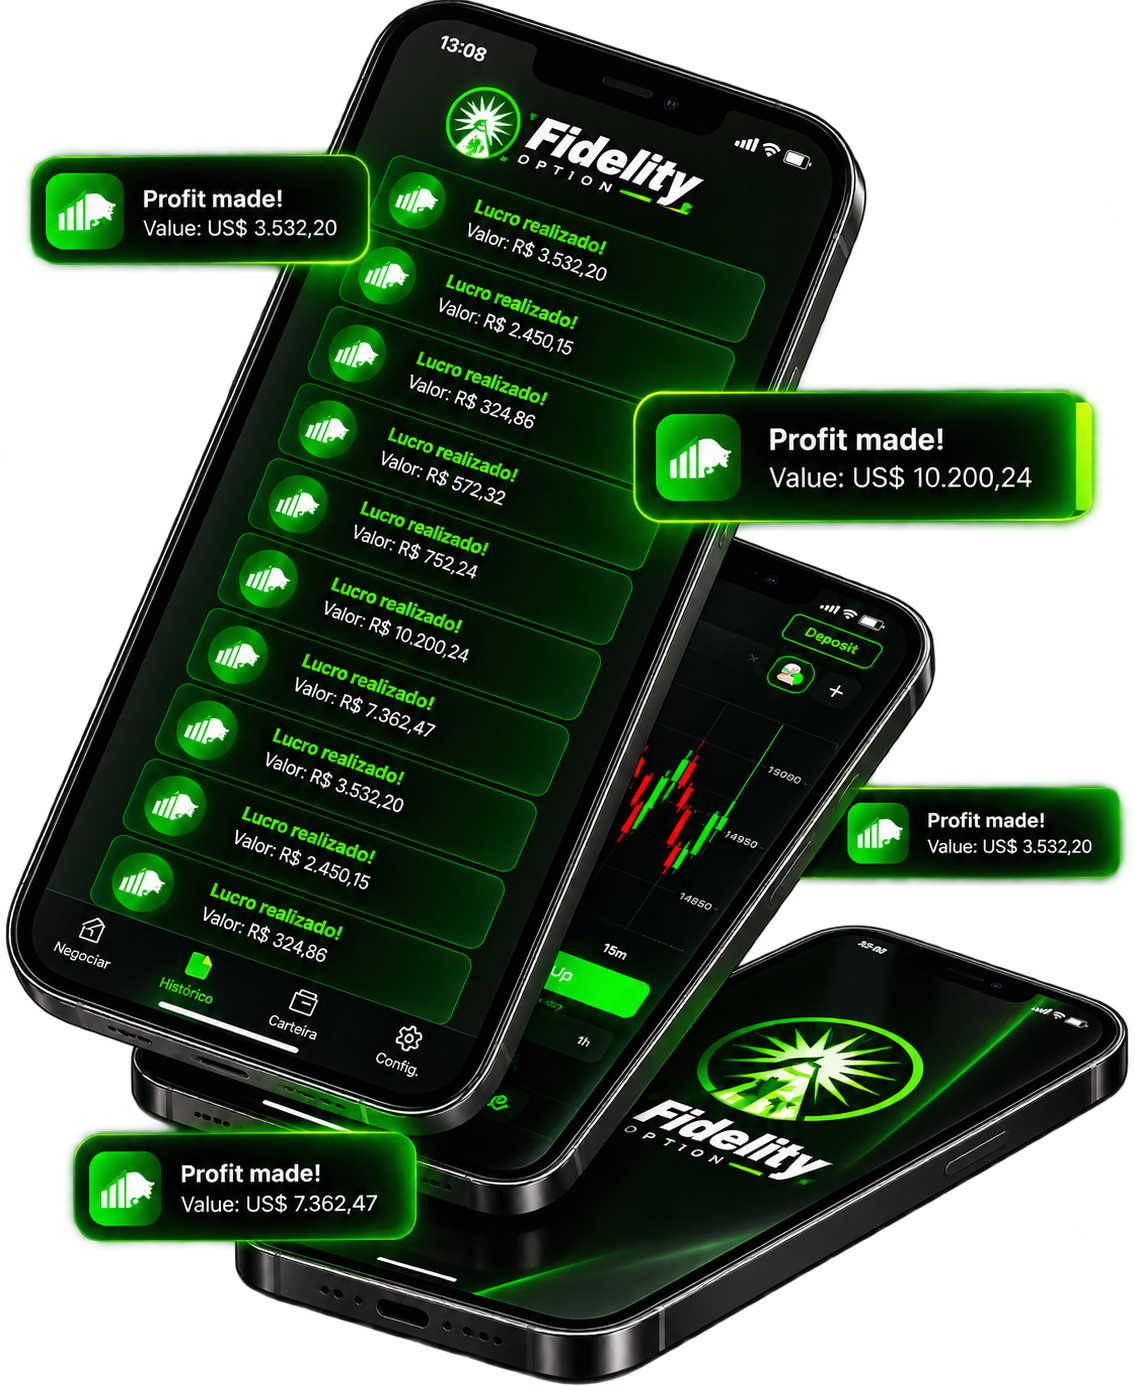
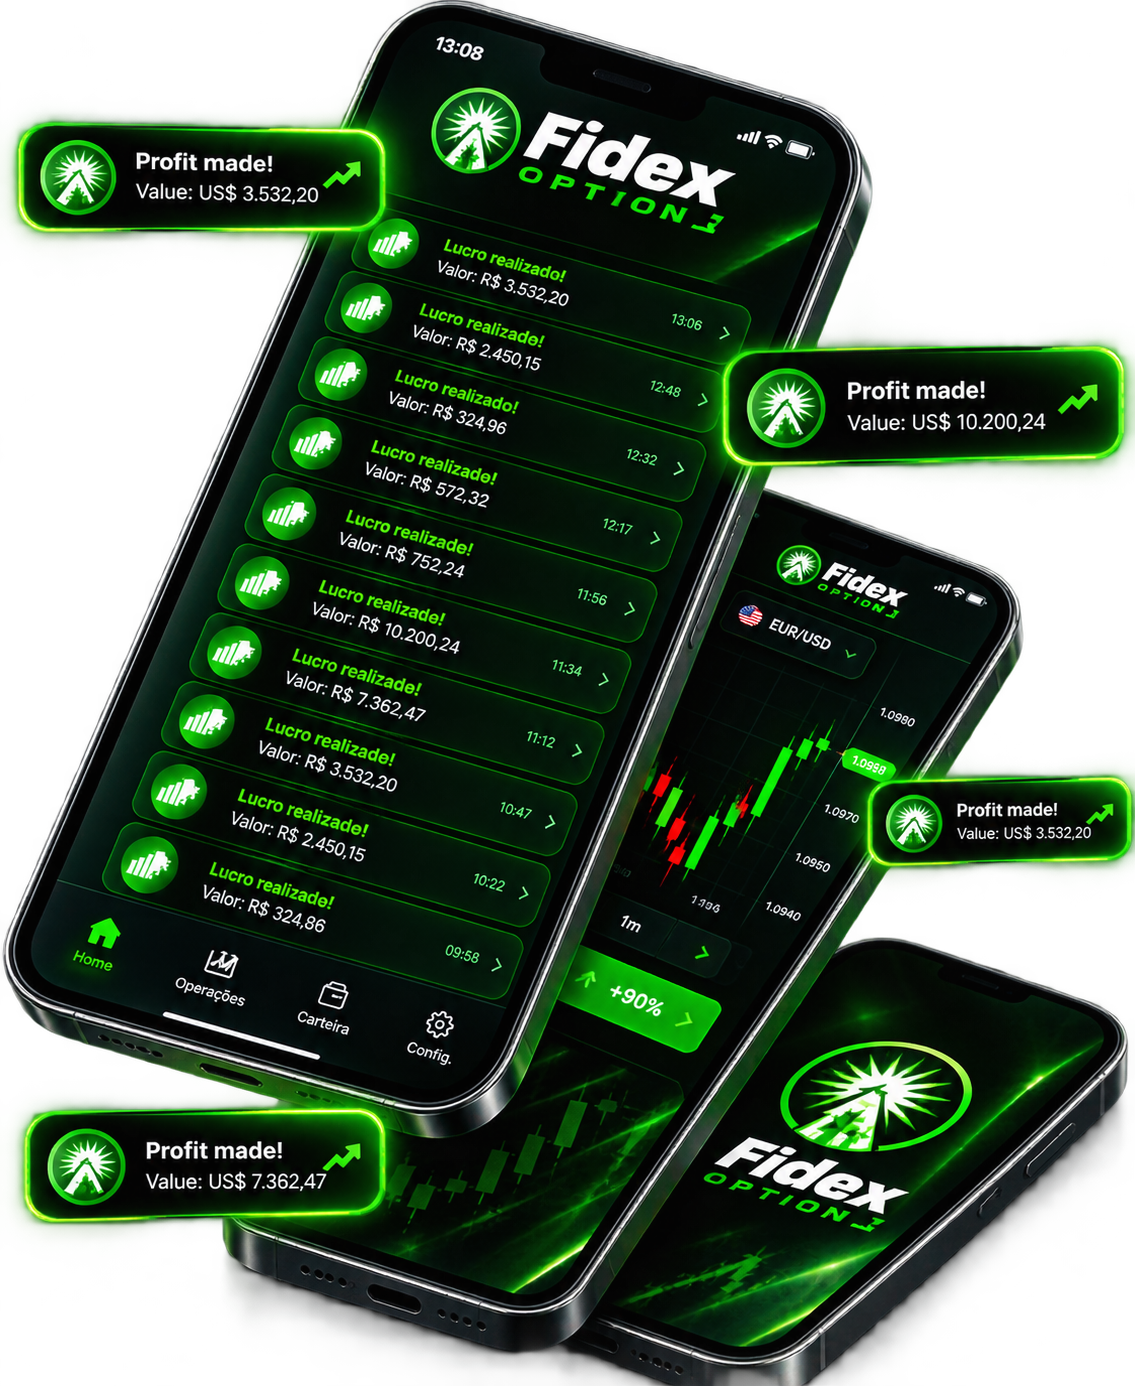
Atualiza mockup do hero com nova arte Fidex Option

diff --git a/app/page.tsx b/app/page.tsx
@@ -62,7 +62,7 @@ export default function HomePage() {
           </div>
           <div className="fidelity-phone-stage relative order-2 flex min-h-[300px] items-center justify-center sm:min-h-[410px] lg:order-1 lg:min-h-[520px]">
             <div className="absolute inset-12 rounded-full bg-[var(--landing-primary)]/15 blur-3xl" />
-            <Image src="/images/fidelity-mobile-platform.png" alt="Aplicativo Fidex Option exibindo histórico de lucros e plataforma de negociação" width={1137} height={1387} sizes="(max-width: 639px) 82vw, (max-width: 1023px) 90vw, 540px" className="fidelity-phone relative mx-auto max-h-[360px] w-auto object-contain drop-shadow-2xl sm:max-h-[570px]" priority />
+            <Image src="/images/fidelity-mobile-platform.png" alt="Três celulares com o aplicativo Fidex Option exibindo histórico de lucros, gráfico EUR/USD e notificações de lucro realizado" width={1137} height={1387} sizes="(max-width: 639px) 82vw, (max-width: 1023px) 90vw, 540px" className="fidelity-phone relative mx-auto max-h-[360px] w-auto object-contain drop-shadow-2xl sm:max-h-[570px]" priority />
           </div>
         </div>
       </section>
